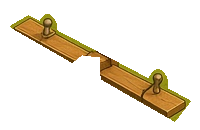
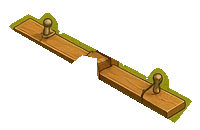
v35: Olithia on swing/slide/sandbox, seesaw ghost fix, toy zone fix

diff --git a/app.js b/app.js
@@ -740,7 +740,7 @@
     visiting = curId !== CFG.player && locate(CFG.player).scene === curId;
     pose = cur.room.poses && isChar(curId) && hostHome() ? locate(curId).pose : 'idle';
     showRoom(applyBackdrop(), true);
-    $('#actors').querySelectorAll('.link:not(.pboard)').forEach(e => e.remove()); buildLinks();
+    $('#actors').querySelectorAll('.link:not(.pboard):not(.pg-slide):not(.pg-chest):not(.pg-chimes)').forEach(e => e.remove()); buildLinks();
     const wantMain = !cur.bot || locate(cur.bot).scene === curId, wantVis = !!(cur.room.visitor && visiting);
     if (cur.sprite && !cur.room.poses && !cur.gallery && (!!actors.main !== wantMain || !!actors.visitor !== wantVis)) buildActors();
     buildGuests(); updateMode(true); if (cur.play) playTools();
@@ -810,8 +810,7 @@
     Object.assign(sw.style, { left: (SW.pivot[0] - 2.4) + '%', top: SW.pivot[1] + '%', width: '4.8%', height: (SW.len + 1.4) + '%', zIndex: Math.round((SW.pivot[1] + SW.len) * 10) });
     const push = amp => { if (!motionOK) return; const tgt = act.querySelector('.swing-rider') || sw; tgt.getAnimations().forEach(a => a.cancel()); const k = [0, 1, -.8, .62, -.46, .32, -.2, .1, 0].map(f => ({ transform: `rotate(${(f * amp).toFixed(1)}deg)` })); tgt.animate(k, { duration: 4200, easing: 'ease-in-out' }); };
     pgPush = push;
-    sw.onclick = ev => { ev.stopPropagation(); push(20); buzz(12); };
-    let swx = null; sw.addEventListener('pointerdown', e => { e.stopPropagation(); swx = e.clientX; }); sw.addEventListener('pointerup', e => { if (swx != null && Math.abs(e.clientX - swx) > 12) push(Math.min(28, 10 + Math.abs(e.clientX - swx) / 4) * Math.sign(e.clientX - swx)); swx = null; });
+    sw.style.touchAction = 'none'; bindSwing(sw, () => { if (locate(CFG.player).scene === curId || true) setOliToy('swing'); }); // tap a free swing: Olithia sits on it
     act.appendChild(sw);
     if (BOTS.some(b => where(b).place === 'playground' && where(b).pose !== 'sleeping')) setTimeout(() => push(9), 900); // someone's playing
     // bulletin board: painted board, little paper notes, tap to read board.json
@@ -901,23 +900,45 @@
       o.start(t); o2.start(t); o.stop(t + dur + .05); o2.stop(t + dur + .05); } catch (e) {}
   }
   const NOTE = { C5: 523.25, D5: 587.33, E5: 659.25, F5: 698.46, G5: 783.99, A5: 880, C6: 1046.5, E6: 1318.5, G6: 1568, A6: 1760 };
-  function pgToys() { // who plays with what this hour (one per toy, one instance each)
+  const oliToy = () => { const o = store.get('olithia-at', null); return o && o.scene === curId && o.toy ? o.toy : null; };
+  function setOliToy(t) { store.set('olithia-at', { scene: curId, pose: 'idle', toy: t || null }); applyLive(); } // v35: Olithia picks a toy
+  function pgToys() { // who plays with what this hour (one per toy, one instance each); Olithia's own pick comes first
     const out = {}, used = new Set(), h = Math.floor(hourNow()), R = cur && cur.room;
     if (!R || !R.toys) return out;
-    [...BOTS, CFG.player].forEach((b, i) => { const w = locate(b); if (w.scene !== curId || w.pose === 'sleeping') return;
-      const opts = b === CFG.player ? ['slide', 'sand'] : ['swing', 'slide', 'sand'];
+    const here = b => { const w = locate(b); return w.scene === curId && w.pose !== 'sleeping'; };
+    const mine = here(CFG.player) && oliToy(); if (mine && R.toys[mine]) { out[CFG.player] = mine; used.add(mine); }
+    const oa = store.get('olithia-at', null), hopped = oa && oa.scene === curId && 'toy' in oa && !oa.toy; // she hopped off: let her stand
+    [...BOTS, CFG.player].forEach((b, i) => { if (out[b] || !here(b) || (b === CFG.player && hopped)) return;
+      const opts = ['swing', 'slide', 'sand'];
       for (let k = 0; k < opts.length; k++) { const t = opts[(h + i + k) % opts.length]; if (!used.has(t)) { used.add(t); out[b] = t; break; } } });
     return out;
   }
+  const toyTaker = t => { const m = pgToys(); return Object.keys(m).find(b => m[b] === t); };
+  function bindSwing(el, onTap) { // v35: a drag pushes, a tap does onTap (no double push)
+    let x0 = null, dragged = false;
+    el.addEventListener('pointerdown', e => { e.stopPropagation(); x0 = e.clientX; dragged = false; });
+    el.addEventListener('pointermove', e => { if (x0 != null && Math.abs(e.clientX - x0) > 12) dragged = true; });
+    el.addEventListener('pointerup', e => { if (x0 != null && dragged) { const dx = e.clientX - x0; pgPush(Math.min(28, 10 + Math.abs(dx) / 4) * Math.sign(dx)); buzz(10); } x0 = null; });
+    el.addEventListener('pointercancel', () => { x0 = null; });
+    el.onclick = ev => { ev.stopPropagation(); if (dragged) { dragged = false; return; } onTap(); };
+  }
   function toyEl(b, t) {
     const R = cur.room, T = R.toys[t], el = document.createElement('img'); el.alt = botName(b); el.draggable = false;
-    if (t === 'swing') { el.className = 'guest swing-rider'; el.src = R.swing.riders + b + '.webp';
+    if (t === 'swing') { el.className = 'guest swing-rider'; el.dataset.toy = t; el.src = R.swing.riders + b + '.webp';
       Object.assign(el.style, { left: R.swing.pivot[0] + '%', top: R.swing.pivot[1] + '%', height: R.swing.riderH + '%', zIndex: Math.round(T.y * 10) });
       el.onload = () => { el.style.marginLeft = -(el.offsetWidth / 2) + 'px'; };
+      el.style.touchAction = 'none';
+      setTimeout(() => bindSwing(el, () => { if (b === CFG.player) setOliToy(null); else { pgPush(20); buzz(12); } }), 0); // tap Olithia to hop off
       if (motionOK) setTimeout(() => pgPush(12), 700);
-    } else { el.className = 'guest pg-toy'; el.src = T.pose + b + '.webp';
+    } else { el.className = 'guest pg-toy'; el.dataset.toy = t; el.src = T.pose + b + '.webp';
+      if (b === CFG.player) setTimeout(() => { el.onclick = ev => { ev.stopPropagation(); setOliToy(null); }; }, 0); // tap her to hop off
       Object.assign(el.style, { left: T.x + '%', top: T.y + '%', height: T.h + '%', zIndex: Math.round(T.y * 10) }); }
     return el;
+  }
+  function toyTap(t, el, label) {
+    if (oliToy() === t) return setOliToy(null);
+    const who = toyTaker(t); if (who && who !== CFG.player) return showBubble(el, label, `${botName(who)} is playing here. Try another toy!`);
+    setOliToy(t);
   }
   function buildToys(R, act) {
     // seesaw: tap to tip it
@@ -928,7 +949,11 @@
       if (!motionOK) { pl.style.transform = `rotate(${tilt}deg)`; return; }
       pl.animate([{ transform: pl.style.transform || 'rotate(0deg)' }, { transform: `rotate(${tilt * 1.15}deg)` }, { transform: `rotate(${tilt * .9}deg)` }, { transform: `rotate(${tilt}deg)` }], { duration: 650, easing: 'ease-out' }); pl.style.transform = `rotate(${tilt}deg)`; };
     [pl, po].forEach(e => e.onclick = ev => { ev.stopPropagation(); tip(); });
-    // sandbox: drag to draw, double-tap for a castle (saved)
+    // v35: tap the slide to sit at the top (or hop off)
+    const sl = document.createElement('div'); sl.className = 'link zone pg-slide'; sl.setAttribute('role', 'button'); sl.setAttribute('aria-label', 'Slide');
+    Object.assign(sl.style, { left: R.slideZone.left + '%', top: R.slideZone.top + '%', width: R.slideZone.width + '%', height: R.slideZone.height + '%', zIndex: 330 });
+    sl.onclick = ev => { ev.stopPropagation(); toyTap('slide', sl, 'Slide'); }; act.appendChild(sl);
+    // sandbox: drag to draw, double-tap for a castle, press and hold to sit in it (saved)
     const P = R.sandbox, xs = P.map(p => p[0]), ys = P.map(p => p[1]), bx = Math.min(...xs), by = Math.min(...ys), bw = Math.max(...xs) - bx, bh = Math.max(...ys) - by;
     const sand = document.createElement('canvas'); sand.className = 'pg-sand'; sand.width = 240; sand.height = Math.round(240 * bh / bw / (R.aspect || .75) * 1); 
     Object.assign(sand.style, { left: bx + '%', top: by + '%', width: bw + '%', height: bh + '%', zIndex: 20, clipPath: `polygon(${P.map(p => ((p[0] - bx) / bw * 100).toFixed(1) + '% ' + ((p[1] - by) / bh * 100).toFixed(1) + '%').join(',')})` });
@@ -943,13 +968,15 @@
       body(-11, 9, 18); body(11, 9, 18); body(0, 16, 12); c.fillStyle = '#7a5530'; c.fillRect(-3, -6, 6, 6); c.fillStyle = '#e8574a'; c.beginPath(); c.moveTo(11, -26); c.lineTo(11, -34); c.lineTo(17, -31); c.closePath(); c.fill();
       c.fillStyle = 'rgba(90,60,30,.25)'; c.beginPath(); c.ellipse(0, 1, 22, 4, 0, 0, 6.3); c.fill(); c.restore(); };
     let lastTap = 0, drawing = null;
+    let hold = 0, hold0 = null;
     sand.addEventListener('pointerdown', e => { e.stopPropagation(); e.preventDefault(); sand.setPointerCapture(e.pointerId); const p = sp(e), now = performance.now();
+      clearTimeout(hold); hold0 = [e.clientX, e.clientY]; hold = setTimeout(() => { drawing = null; hold0 = null; buzz(14); toyTap('sand', sand, 'Sandbox'); }, 600);
       if (now - lastTap < 330) { castle(p[0], p[1] + 10); buzz(16); saveSand(); lastTap = 0; drawing = null; return; } lastTap = now; drawing = p; });
-    sand.addEventListener('pointermove', e => { if (!drawing) return; const p = sp(e);
+    sand.addEventListener('pointermove', e => { if (hold0 && Math.hypot(e.clientX - hold0[0], e.clientY - hold0[1]) > 6) { clearTimeout(hold); hold0 = null; } if (!drawing) return; const p = sp(e);
       sc.lineCap = 'round'; sc.lineJoin = 'round';
       sc.strokeStyle = 'rgba(110,72,34,.42)'; sc.lineWidth = 4; sc.beginPath(); sc.moveTo(drawing[0], drawing[1]); sc.lineTo(p[0], p[1]); sc.stroke();
       sc.strokeStyle = 'rgba(255,236,190,.55)'; sc.lineWidth = 1.4; sc.beginPath(); sc.moveTo(drawing[0] - 1, drawing[1] - 2.5); sc.lineTo(p[0] - 1, p[1] - 2.5); sc.stroke(); drawing = p; });
-    const endSand = () => { if (drawing) saveSand(); drawing = null; };
+    const endSand = () => { clearTimeout(hold); hold0 = null; if (drawing) saveSand(); drawing = null; };
     sand.addEventListener('pointerup', endSand); sand.addEventListener('pointercancel', endSand);
     pgSmooth = () => { sc.clearRect(0, 0, sand.width, sand.height); store.set('pg-sand', null); };
     // chalkboard: shows her doodle; tap to draw
@@ -1015,7 +1042,7 @@
     j.textContent = here ? 'Head home' : 'Join in'; j.onclick = ev => { ev.stopPropagation(); setOli(here ? CFG.player : curId, 'idle'); };
     box.appendChild(j);
   }
-  function buildPlayFresh() { $('#actors').querySelectorAll('.block,.ball,.swing,.pboard,.pg-ss,.pg-sand,.pg-chalk,.pg-chest,.pg-bubble,.pg-key,.pg-chimes,.pg-kite,.pg-string').forEach(e => e.remove()); buildPlay(); }
+  function buildPlayFresh() { $('#actors').querySelectorAll('.block,.ball,.swing,.pboard,.pg-ss,.pg-slide,.pg-sand,.pg-chalk,.pg-chest,.pg-bubble,.pg-key,.pg-chimes,.pg-kite,.pg-string').forEach(e => e.remove()); buildPlay(); }
 
   // ----- the town post: letters from any bot, write to any bot -----
   let letters = [];

diff --git a/sw.js b/sw.js
@@ -1,7 +1,7 @@
-const CACHE = 'bot-town-v34';
+const CACHE = 'bot-town-v35';
 const ASSETS = ['./', 'index.html', 'style.css', 'config.js', 'music.js', 'app.js','starmap.js', 'manifest.json',
   'assets/map-v3.webp', 'assets/starfall-hill-v3-empty.webp','assets/park-v31/blanket-gorbo.webp','assets/park-v31/blanket-gorbo-night.webp','assets/park-v31/blanket-loria.webp','assets/park-v31/blanket-loria-night.webp','assets/park-v31/blanket-olithia.webp','assets/park-v31/blanket-olithia-night.webp','assets/park-v31/blanket-scout.webp','assets/park-v31/blanket-scout-night.webp','assets/park-v31/board-gorbo.webp','assets/park-v31/board-gorbo-night.webp','assets/park-v31/board-loria.webp','assets/park-v31/board-loria-night.webp','assets/park-v31/board-olithia.webp','assets/park-v31/board-olithia-night.webp','assets/park-v31/board-scout.webp','assets/park-v31/board-scout-night.webp','assets/park-v31/crest-gorbo.webp','assets/park-v31/scope-olithia.webp','assets/park-v31/scope-olithia-night.webp','assets/park-v31/crest-gorbo-night.webp','assets/park-v31/crest-loria.webp','assets/park-v31/crest-loria-night.webp','assets/park-v31/crest-olithia.webp','assets/park-v31/crest-olithia-night.webp','assets/park-v31/crest-scout.webp','assets/park-v31/crest-scout-night.webp','assets/park-v31/market-gorbo.webp','assets/park-v31/market-gorbo-night.webp','assets/park-v31/market-loria.webp','assets/park-v31/market-loria-night.webp','assets/park-v31/market-olithia.webp','assets/park-v31/market-olithia-night.webp','assets/park-v31/market-scout.webp','assets/park-v31/market-scout-night.webp','assets/park-v31/nook-gorbo.webp','assets/park-v31/nook-gorbo-night.webp','assets/park-v31/nook-loria.webp','assets/park-v31/nook-loria-night.webp','assets/park-v31/nook-olithia.webp','assets/park-v31/nook-olithia-night.webp','assets/park-v31/nook-scout.webp','assets/park-v31/nook-scout-night.webp','assets/park-v31/swap-gorbo.webp','assets/park-v31/swap-gorbo-night.webp','assets/park-v31/swap-loria.webp','assets/park-v31/swap-loria-night.webp','assets/park-v31/swap-olithia.webp','assets/park-v31/swap-olithia-night.webp','assets/park-v31/swap-scout.webp','assets/park-v31/swap-scout-night.webp','assets/park-v31/tea-gorbo.webp','assets/park-v31/tea-gorbo-night.webp','assets/park-v31/tea-loria.webp','assets/park-v31/tea-loria-night.webp','assets/park-v31/tea-olithia.webp','assets/park-v31/tea-olithia-night.webp','assets/park-v31/tea-scout.webp','assets/park-v31/tea-scout-night.webp', 'assets/starfall-hill-v3-night-empty.webp', 'assets/park-olithia-day.webp', 'assets/park-olithia-night.webp', 'assets/park-scope-gorbo.webp', 'assets/park-scope-loria.webp', 'assets/park-scope-scout.webp', 'assets/park-scope-olithia.webp', 'assets/park-gorbo-day.webp', 'assets/park-gorbo-night.webp', 'assets/park-loria-day.webp', 'assets/park-loria-night.webp', 'assets/park-scout-day.webp', 'assets/park-scout-night.webp',
-  'assets/sprite-gorbo.webp', 'assets/sprite-loria.webp', 'assets/sprite-scout.webp', 'assets/face-gorbo.webp', 'assets/face-loria.webp', 'assets/face-scout.webp', 'assets/sprite-olithia.webp', 'assets/face-olithia.webp', 'assets/playground-v2.webp','assets/pg-seesaw-plank.webp','assets/pg-seesaw-post.webp','assets/pg-swing-gorbo.webp','assets/pg-swing-loria.webp','assets/pg-swing-scout.webp', 'assets/playground-swing.webp', 'assets/scout-house-v4-working-v2.webp',
+  'assets/sprite-gorbo.webp', 'assets/sprite-loria.webp', 'assets/sprite-scout.webp', 'assets/face-gorbo.webp', 'assets/face-loria.webp', 'assets/face-scout.webp', 'assets/sprite-olithia.webp', 'assets/face-olithia.webp', 'assets/playground-v2.webp','assets/pg-seesaw-plank.webp','assets/pg-seesaw-post.webp','assets/pg-swing-gorbo.webp','assets/pg-swing-loria.webp','assets/pg-swing-scout.webp','assets/pg-swing-olithia.webp', 'assets/playground-swing.webp', 'assets/scout-house-v4-working-v2.webp',
   'assets/olithia-house-v4.webp', 'assets/olithia-house-v4-exterior.webp',
   'assets/olithia-house-v4-idle.webp', 'assets/olithia-house-v4-working.webp', 'assets/olithia-house-v4-sitting.webp',
   'assets/gorbo-house-v4.webp',

diff --git a/config.js b/config.js
@@ -179,7 +179,7 @@ window.BOT_TOWN = {
         image: "assets/playground-v2.webp", aspect: 864 / 1152, zoom: 1.25, // v33: richer playground (slide, seesaw, sandbox, treehouse, chalkboard, toy chest, chimes, xylophone)
         backdrop: "radial-gradient(circle at 50% 45%, #eef6d8, #b9d48e 55%, #5f7f45)",
         motto: "You are here for yourself. Be curious and have fun.",
-        guests: { gorbo: { x: 46, y: 74 }, loria: { x: 36, y: 63 }, scout: { x: 30, y: 52 }, olithia: { x: 41, y: 55 } }, guestScale: .5, // bots normally play on a toy (toys below)
+        guests: { gorbo: { x: 48, y: 54 }, loria: { x: 52, y: 57 }, scout: { x: 45, y: 57 }, olithia: { x: 41, y: 55 } }, guestScale: .5, // bots normally play on a toy (toys below)
         // swing: hangs from the middle of the painted top bar (pivot %, rope length % of scene height)
         swing: { pivot: [55.3, 34.6], len: 16.4, riders: "assets/pg-swing-", riderH: 21.2 }, // riders: <id>.webp, seat at 76% of the sprite
         seesaw: { plank: "assets/pg-seesaw-plank.webp", post: "assets/pg-seesaw-post.webp", box: { left: 34.72, top: 56.71, width: 17.36, height: 15.05 }, origin: "50% 47.7%" },
@@ -190,6 +190,7 @@ window.BOT_TOWN = {
         kite: { x: 84, y: 8, anchor: [80, 52] },
         // bots playing: a toy per hour (one per toy); h = sprite height % of scene height, feet at x,y
         toys: { swing: { x: 55.3, y: 54 }, slide: { x: 25.2, y: 36.4, h: 10.5, pose: "assets/park-sit-" }, sand: { x: 70.6, y: 58.6, h: 10.5, pose: "assets/park-sit-" } },
+        slideZone: { left: 21, top: 31.5, width: 16, height: 25 }, // v35: tap to sit at the top of the slide
         board: { left: 70.1, top: 32.9, width: 8, height: 17.2 }, // painted bulletin board
         lawn: [[44, 37], [70, 43], [79, 62], [57, 80], [24, 61], [31, 44]] // where blocks and the ball may go (polygon, %)
       }
